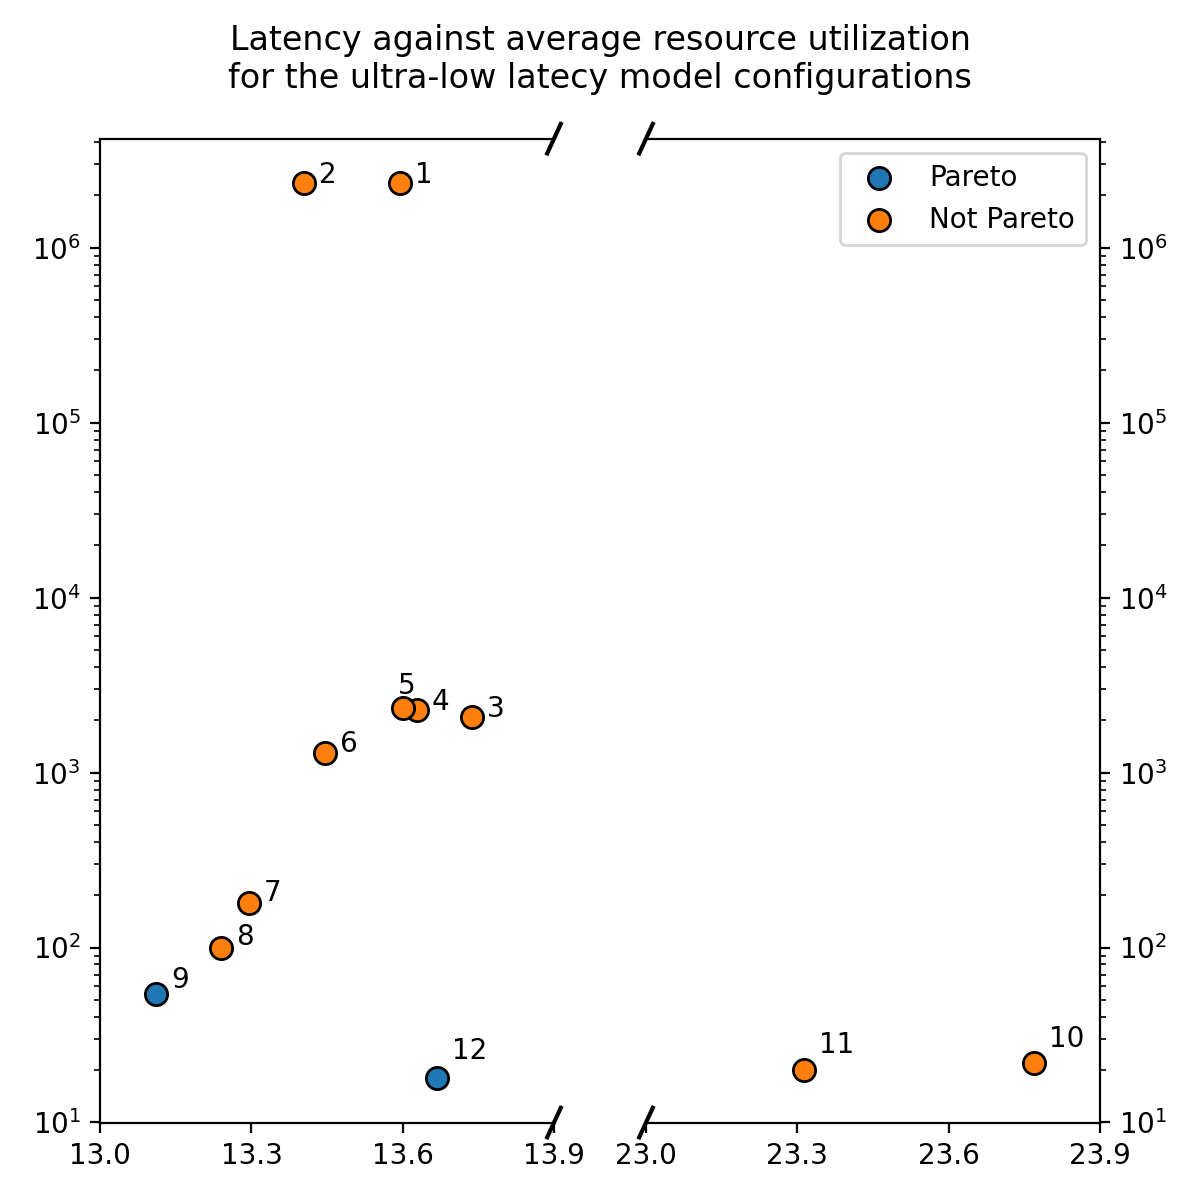
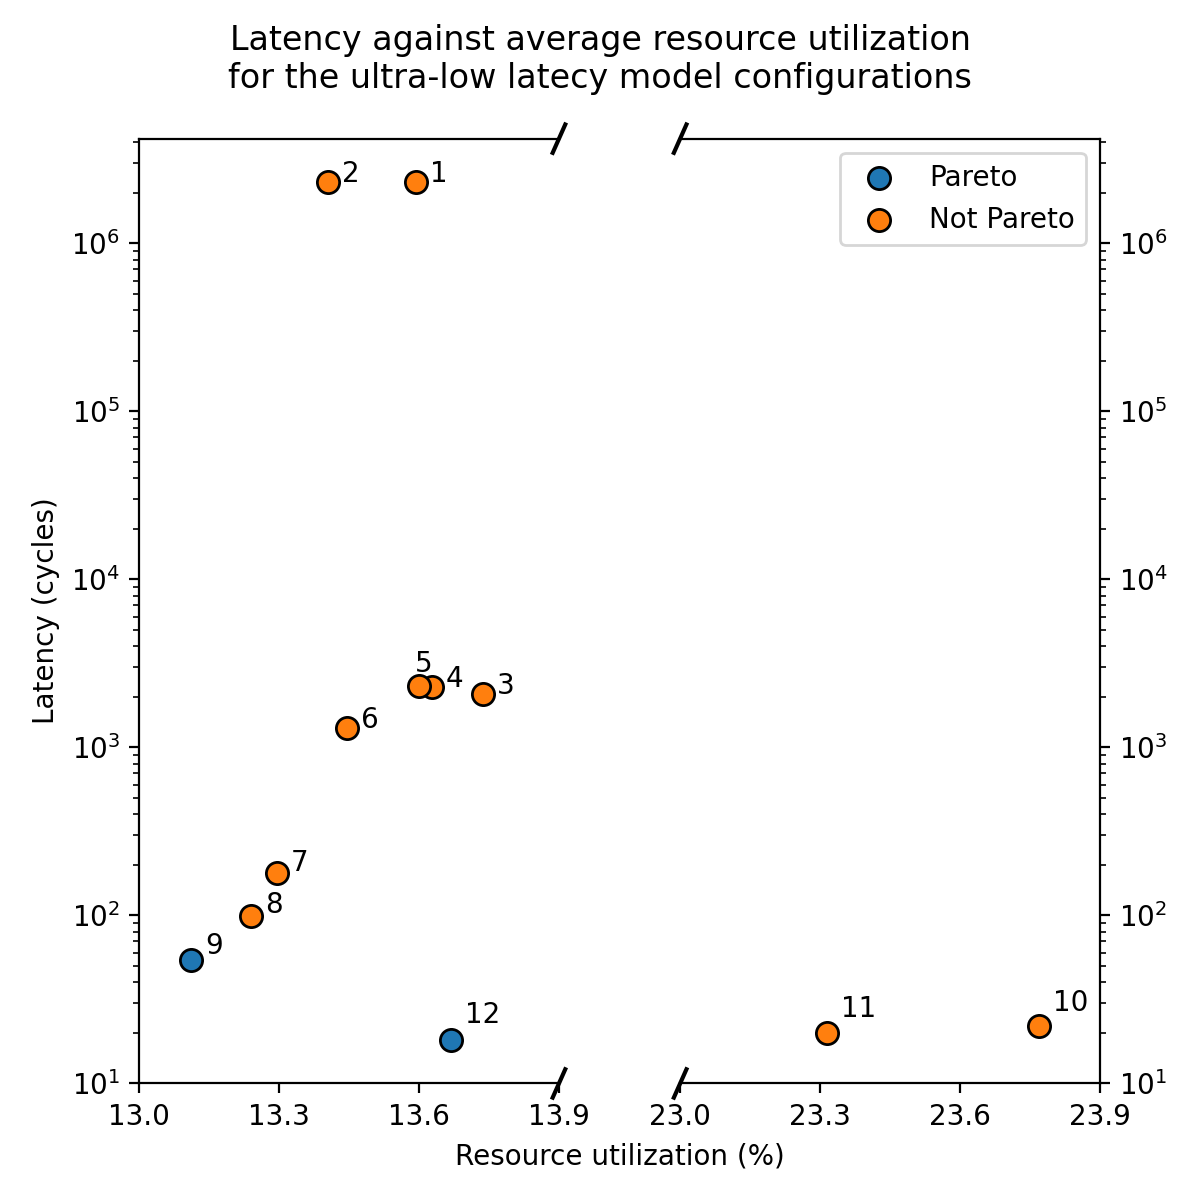
Added labels to axis in Pareto plot

diff --git a/scripts/plot_synthesis.py b/scripts/plot_synthesis.py
@@ -5,6 +5,8 @@ from tabulate import tabulate
 from typing import Dict, List, Tuple
 from adjustText import adjust_text
 
+import matplotlib.pyplot as plt
+
 
 def main(path: str, data: List[Dict], resources_limit: Dict):
   def get_stat(name: str):
@@ -114,6 +116,7 @@ def plot_pareto(path: str, cycles: List[int], hardware_averages: List[float]):
     ax[1].set_yticks(ticks=linspace(y_lim[0], y_lim[1], y_lim[2], endpoint=True))
     ax[1].set_yscale('log')
     
+    ax[0].set(ylabel='Latency (cycles)')
     
     if legend:
       ax[1].legend()
@@ -136,6 +139,8 @@ def plot_pareto(path: str, cycles: List[int], hardware_averages: List[float]):
 
 
   sub_plot(pareto=pareto, ax=ax, legend=True, x_lim=(12.5, 25, 8), y_lim=(0, 2330000, 7))
+  # Alligment and x value needed to center between two axes
+  plt.xlabel('Resource utilization (%)', horizontalalignment='right', x=0.25)
 
   # -------------------- Inset --------------------
   # a = axes([0.4, 0.25, 0.35, 0.45], facecolor='linen')
